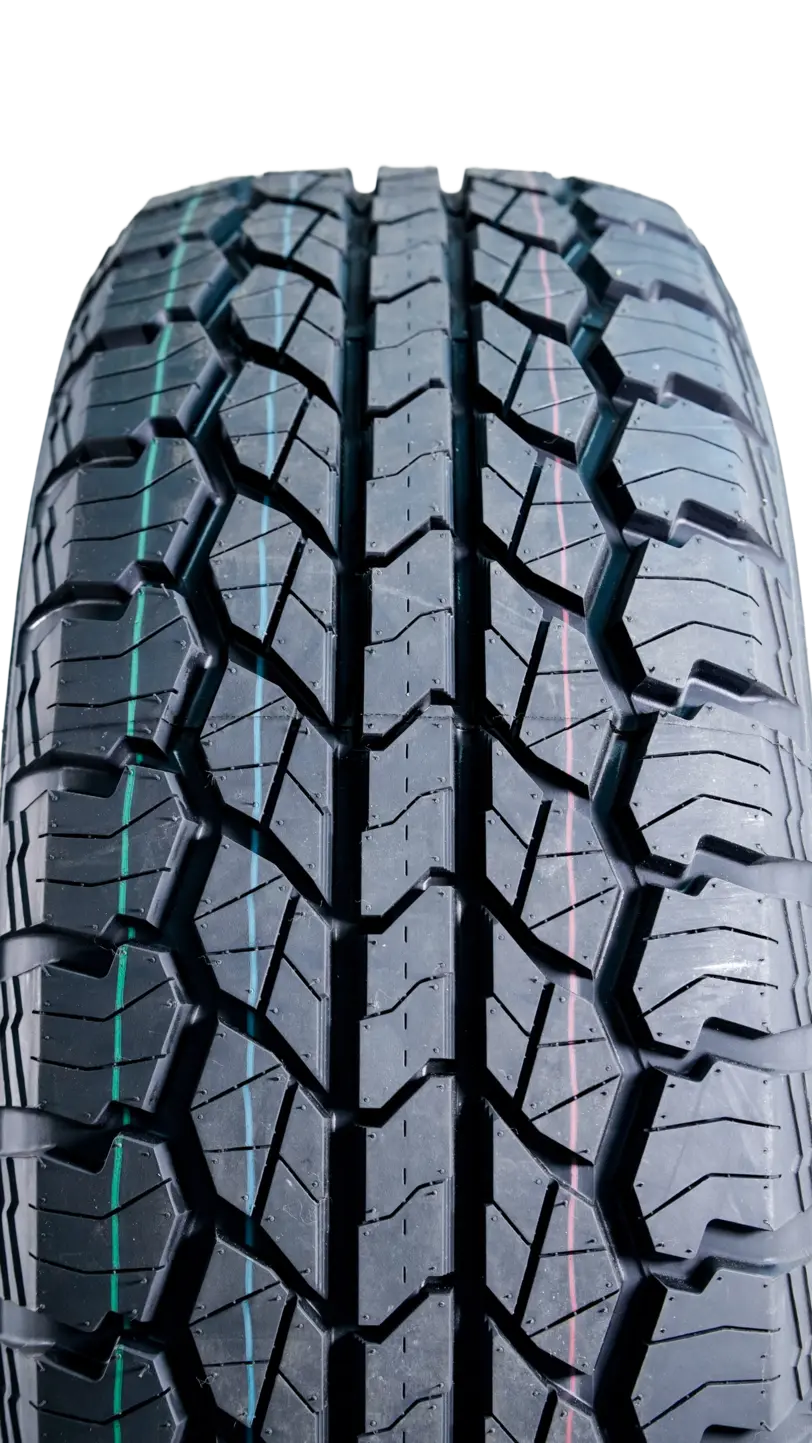
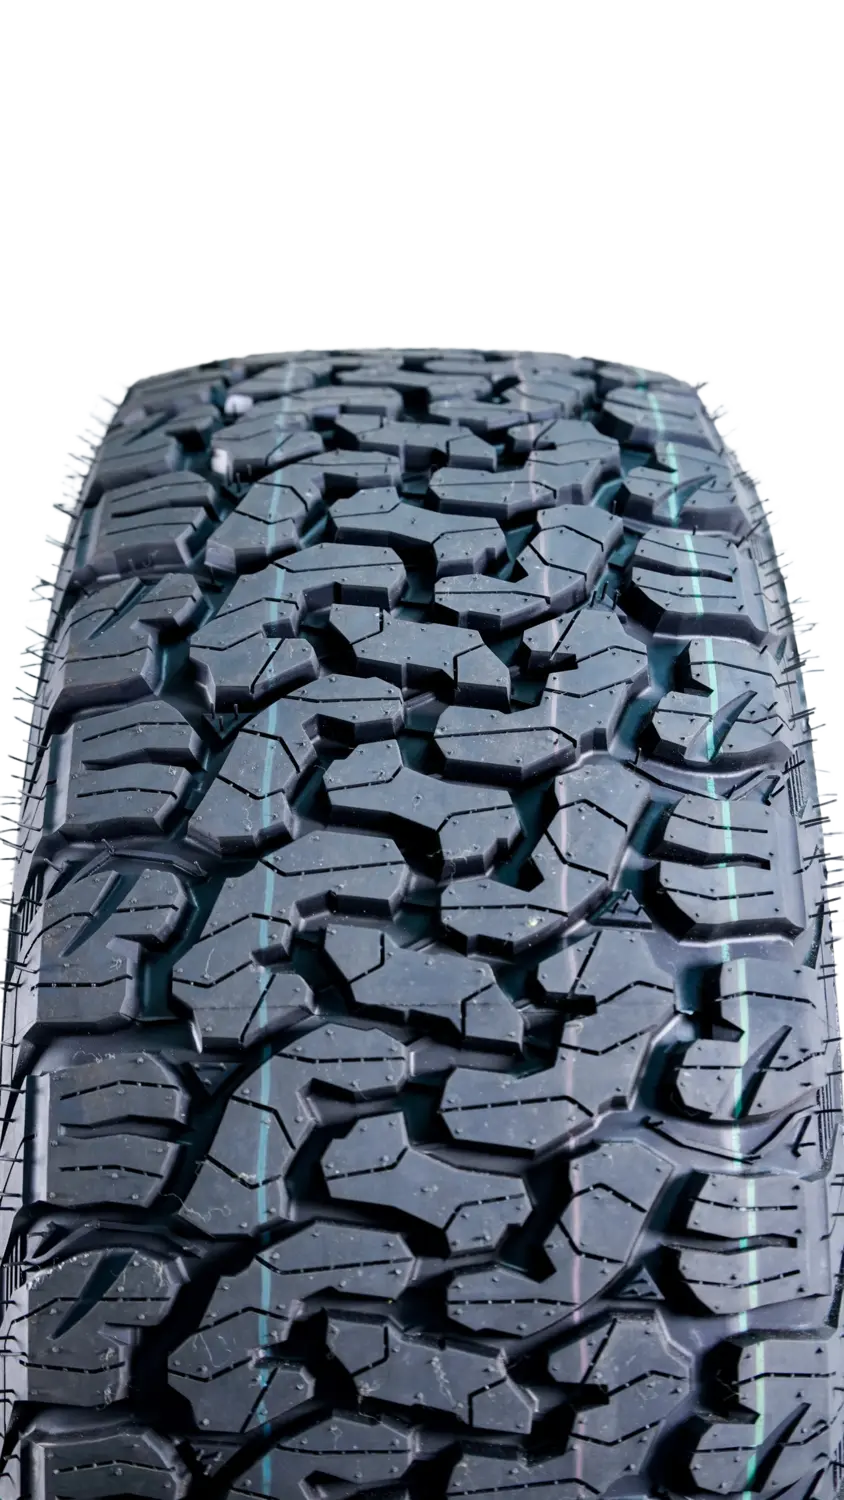
Fix images for rydanz and mobil

diff --git a/public/js/data.js b/public/js/data.js
@@ -2510,25 +2510,25 @@ const CATALOGS = {
     products: [
       {
         id: "rydanz-1",
-        name: "Rydanz Reac RO5",
+        name: "Rydanz Reac R05",
         type: "Neumático de alto rendimiento",
         description: "Neumático de alto rendimiento con tecnología avanzada para máximo agarre y respuesta precisos.",
         category: RYDANZ_TIRE_CAT.REAC,
         line: TIRE_LINES.PAS_RADIAL,
         benefits: ["Excelente agarre en curvas", "Respuesta precisa de dirección", "Alta estabilidad a velocidad"],
         specifications: { sizes: ["ts-012", "ts-013"], season: "Verano", speedRating: "H", loadIndex: "94" },
-        images: ["images/rydanz/rydanz_reac_ro5.webp", "images/rydanz/rydanz_reac_ro5_2.webp", "images/rydanz/rydanz_reac_ro5_3.webp", "images/rydanz/rydanz_reac_ro5_4.webp"]
+        images: ["images/rydanz/rydanz_reac_r05.webp", "images/rydanz/rydanz_reac_r05_2.webp", "images/rydanz/rydanz_reac_r05_3.webp", "images/rydanz/rydanz_reac_r05_4.webp"]
       },
       {
         id: "rydanz-2",
-        name: "Rydanz Raptor RO9",
+        name: "Rydanz Raptor R9",
         type: "Neumático todo terreno",
         description: "Neumático para uso tout terrain con excelente tracción y durabilidad en condiciones severas.",
         category: RYDANZ_TIRE_CAT.RAPTOR,
         line: TIRE_LINES.CAM_RADIAL,
         benefits: ["Gran tracción fuera de camino", "Alta resistencia a cortes", "Durabilidad extrema"],
         specifications: { sizes: ["ts-029", "ts-018", "ts-020", "ts-022"], season: "All-Season", speedRating: "S", loadIndex: "112" },
-        images: ["images/rydanz/rydanz_raptor_ro9.webp", "images/rydanz/rydanz_raptor_ro9_2.webp", "images/rydanz/rydanz_raptor_ro9_3.webp", "images/rydanz/rydanz_raptor_ro9_4.webp"]
+        images: ["images/rydanz/rydanz_raptor_r09.webp", "images/rydanz/rydanz_raptor_r09_2.webp", "images/rydanz/rydanz_raptor_r09_3.webp"]
       },
       {
         id: "rydanz-3",
@@ -2539,7 +2539,7 @@ const CATALOGS = {
         line: TIRE_LINES.CAM_RADIAL,
         benefits: ["Tracción en terrenos difíciles", "Resistencia a impactos", "Diseño autolimpiante"],
         specifications: { sizes: ["ts-029", "ts-022", "ts-023", "ts-025"], season: "All-Season", speedRating: "Q", loadIndex: "118" },
-        images: ["images/rydanz/rydanz_raptor_r19.webp", "images/rydanz/rydanz_raptor_r19_2.webp", "images/rydanz/rydanz_raptor_r19_3.webp"]
+        images: ["images/rydanz/rydanz_raptor_r19.webp", "images/rydanz/rydanz_raptor_r19_2.webp", "images/rydanz/rydanz_raptor_r19_3.webp", "images/rydanz/rydanz_raptor_r19_4.webp"]
       },
       {
         id: "rydanz-4",
@@ -2550,7 +2550,7 @@ const CATALOGS = {
         line: TIRE_LINES.PAS_RADIAL,
         benefits: ["Confort de marcha", "Bajo nivel de ruido", "Larga vida útil"],
         specifications: { sizes: ["ts-010", "ts-011", "ts-006"], season: "All-Season", speedRating: "H", loadIndex: "91" },
-        images: ["images/rydanz/rydanz_raleigh_ro6.webp", "images/rydanz/rydanz_raleigh_ro6_2.webp", "images/rydanz/rydanz_raleigh_ro6_3.webp"]
+        images: ["images/rydanz/rydanz_raleigh_r06.webp", "images/rydanz/rydanz_raleigh_r06_2.webp", "images/rydanz/rydanz_raleigh_r06_3.webp"]
       },
       {
         id: "rydanz-5",
@@ -2561,7 +2561,7 @@ const CATALOGS = {
         line: TIRE_LINES.PAS_RADIAL,
         benefits: ["Optimización de la estabilidad y el silencio", "Hombro exterior robusto para majoe preciso y seguridad"],
         specifications: { sizes: ["ts-012", "ts-013"], season: "All-season", speedRating: "V", loadIndex: "94" },
-        images: ["images/rydanz/rydanz_roadster_ro2.webp", "images/rydanz/rydanz_roadster_ro2_2.webp"]
+        images: ["images/rydanz/rydanz_roadster_r02.webp", "images/rydanz/rydanz_roadster_r02_2.webp"]
       },
       {
         id: "rydanz-6",
@@ -2572,7 +2572,7 @@ const CATALOGS = {
         line: TIRE_LINES.CAM_CONV,
         benefits: ["Bloques de banda de rodadura grandes y de alto relieve", "Alta rigidez", "Surcos profundos, anchos e interconectados", "Disposición densa"],
         specifications: { sizes: ["ts-029", "ts-022", "ts-023", "ts-025"], season: "All-season", speedRating: "Q", loadIndex: "118" },
-        images: ["images/rydanz/rydanz_rammer_ro8.webp", "images/rydanz/rydanz_rammer_ro8_2.webp"]
+        images: ["images/rydanz/rydanz_rammer_r08.webp", "images/rydanz/rydanz_rammer_r08_2.webp"]
       }
     ]
   },